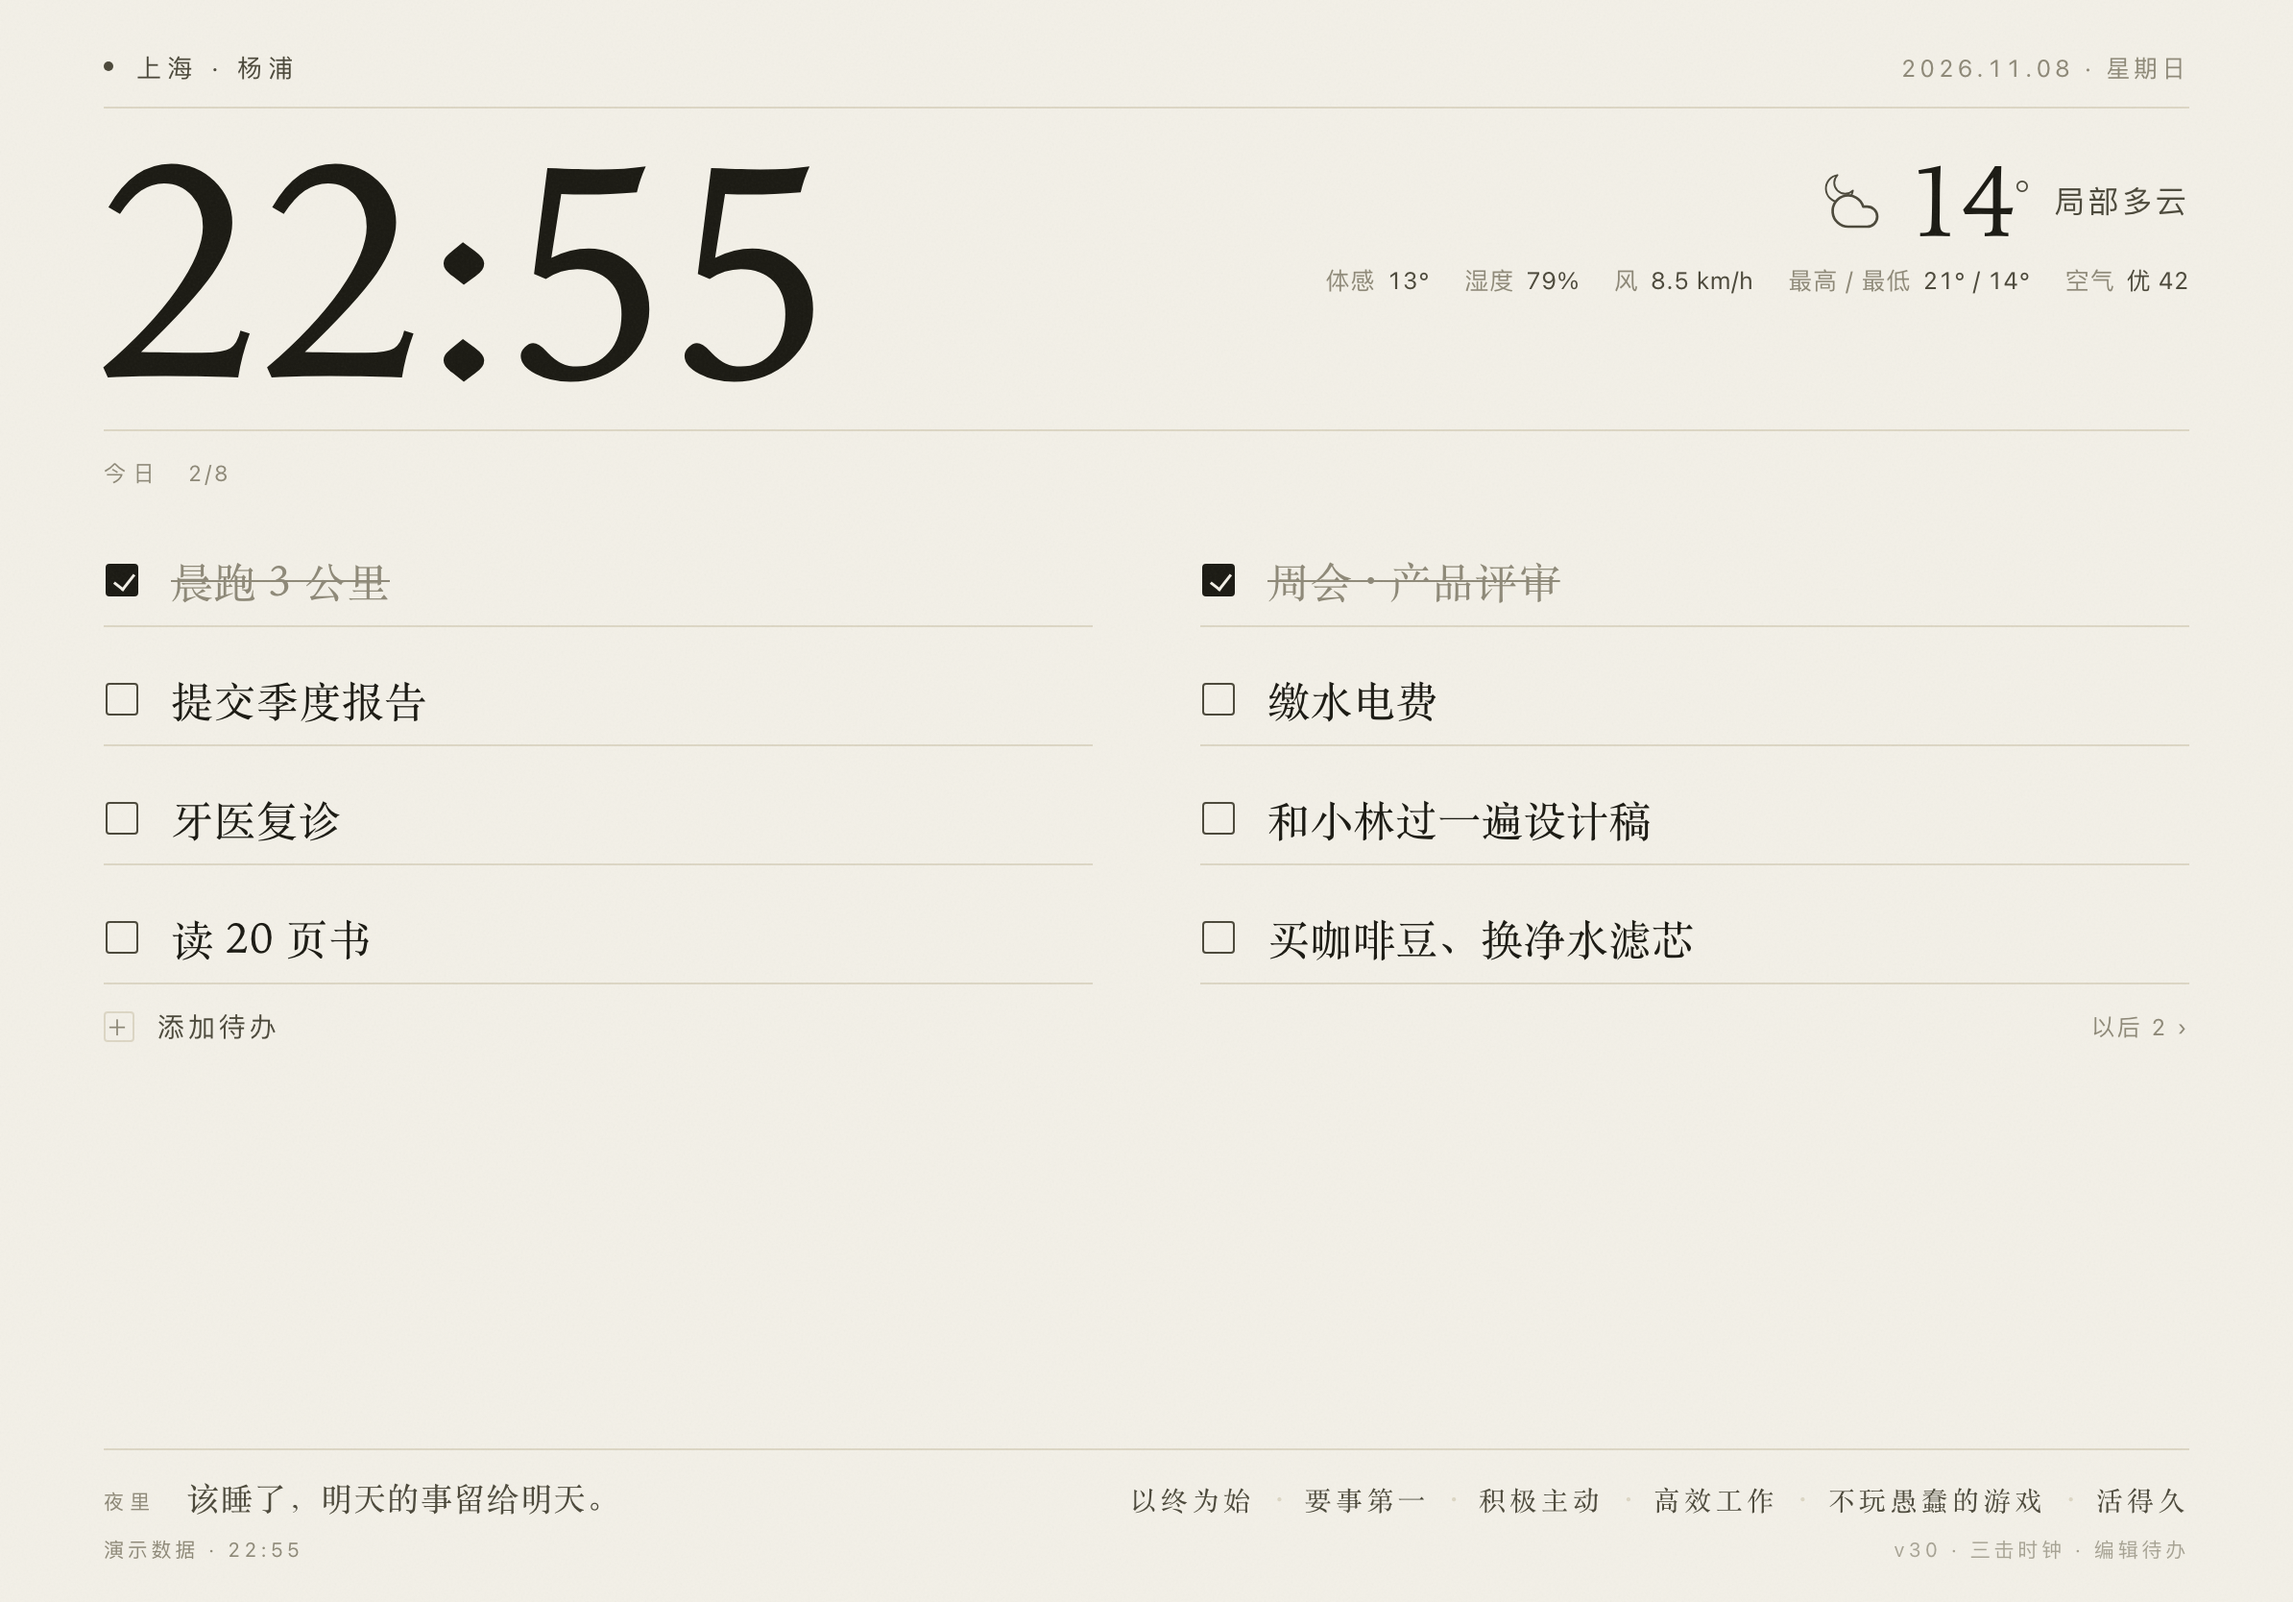
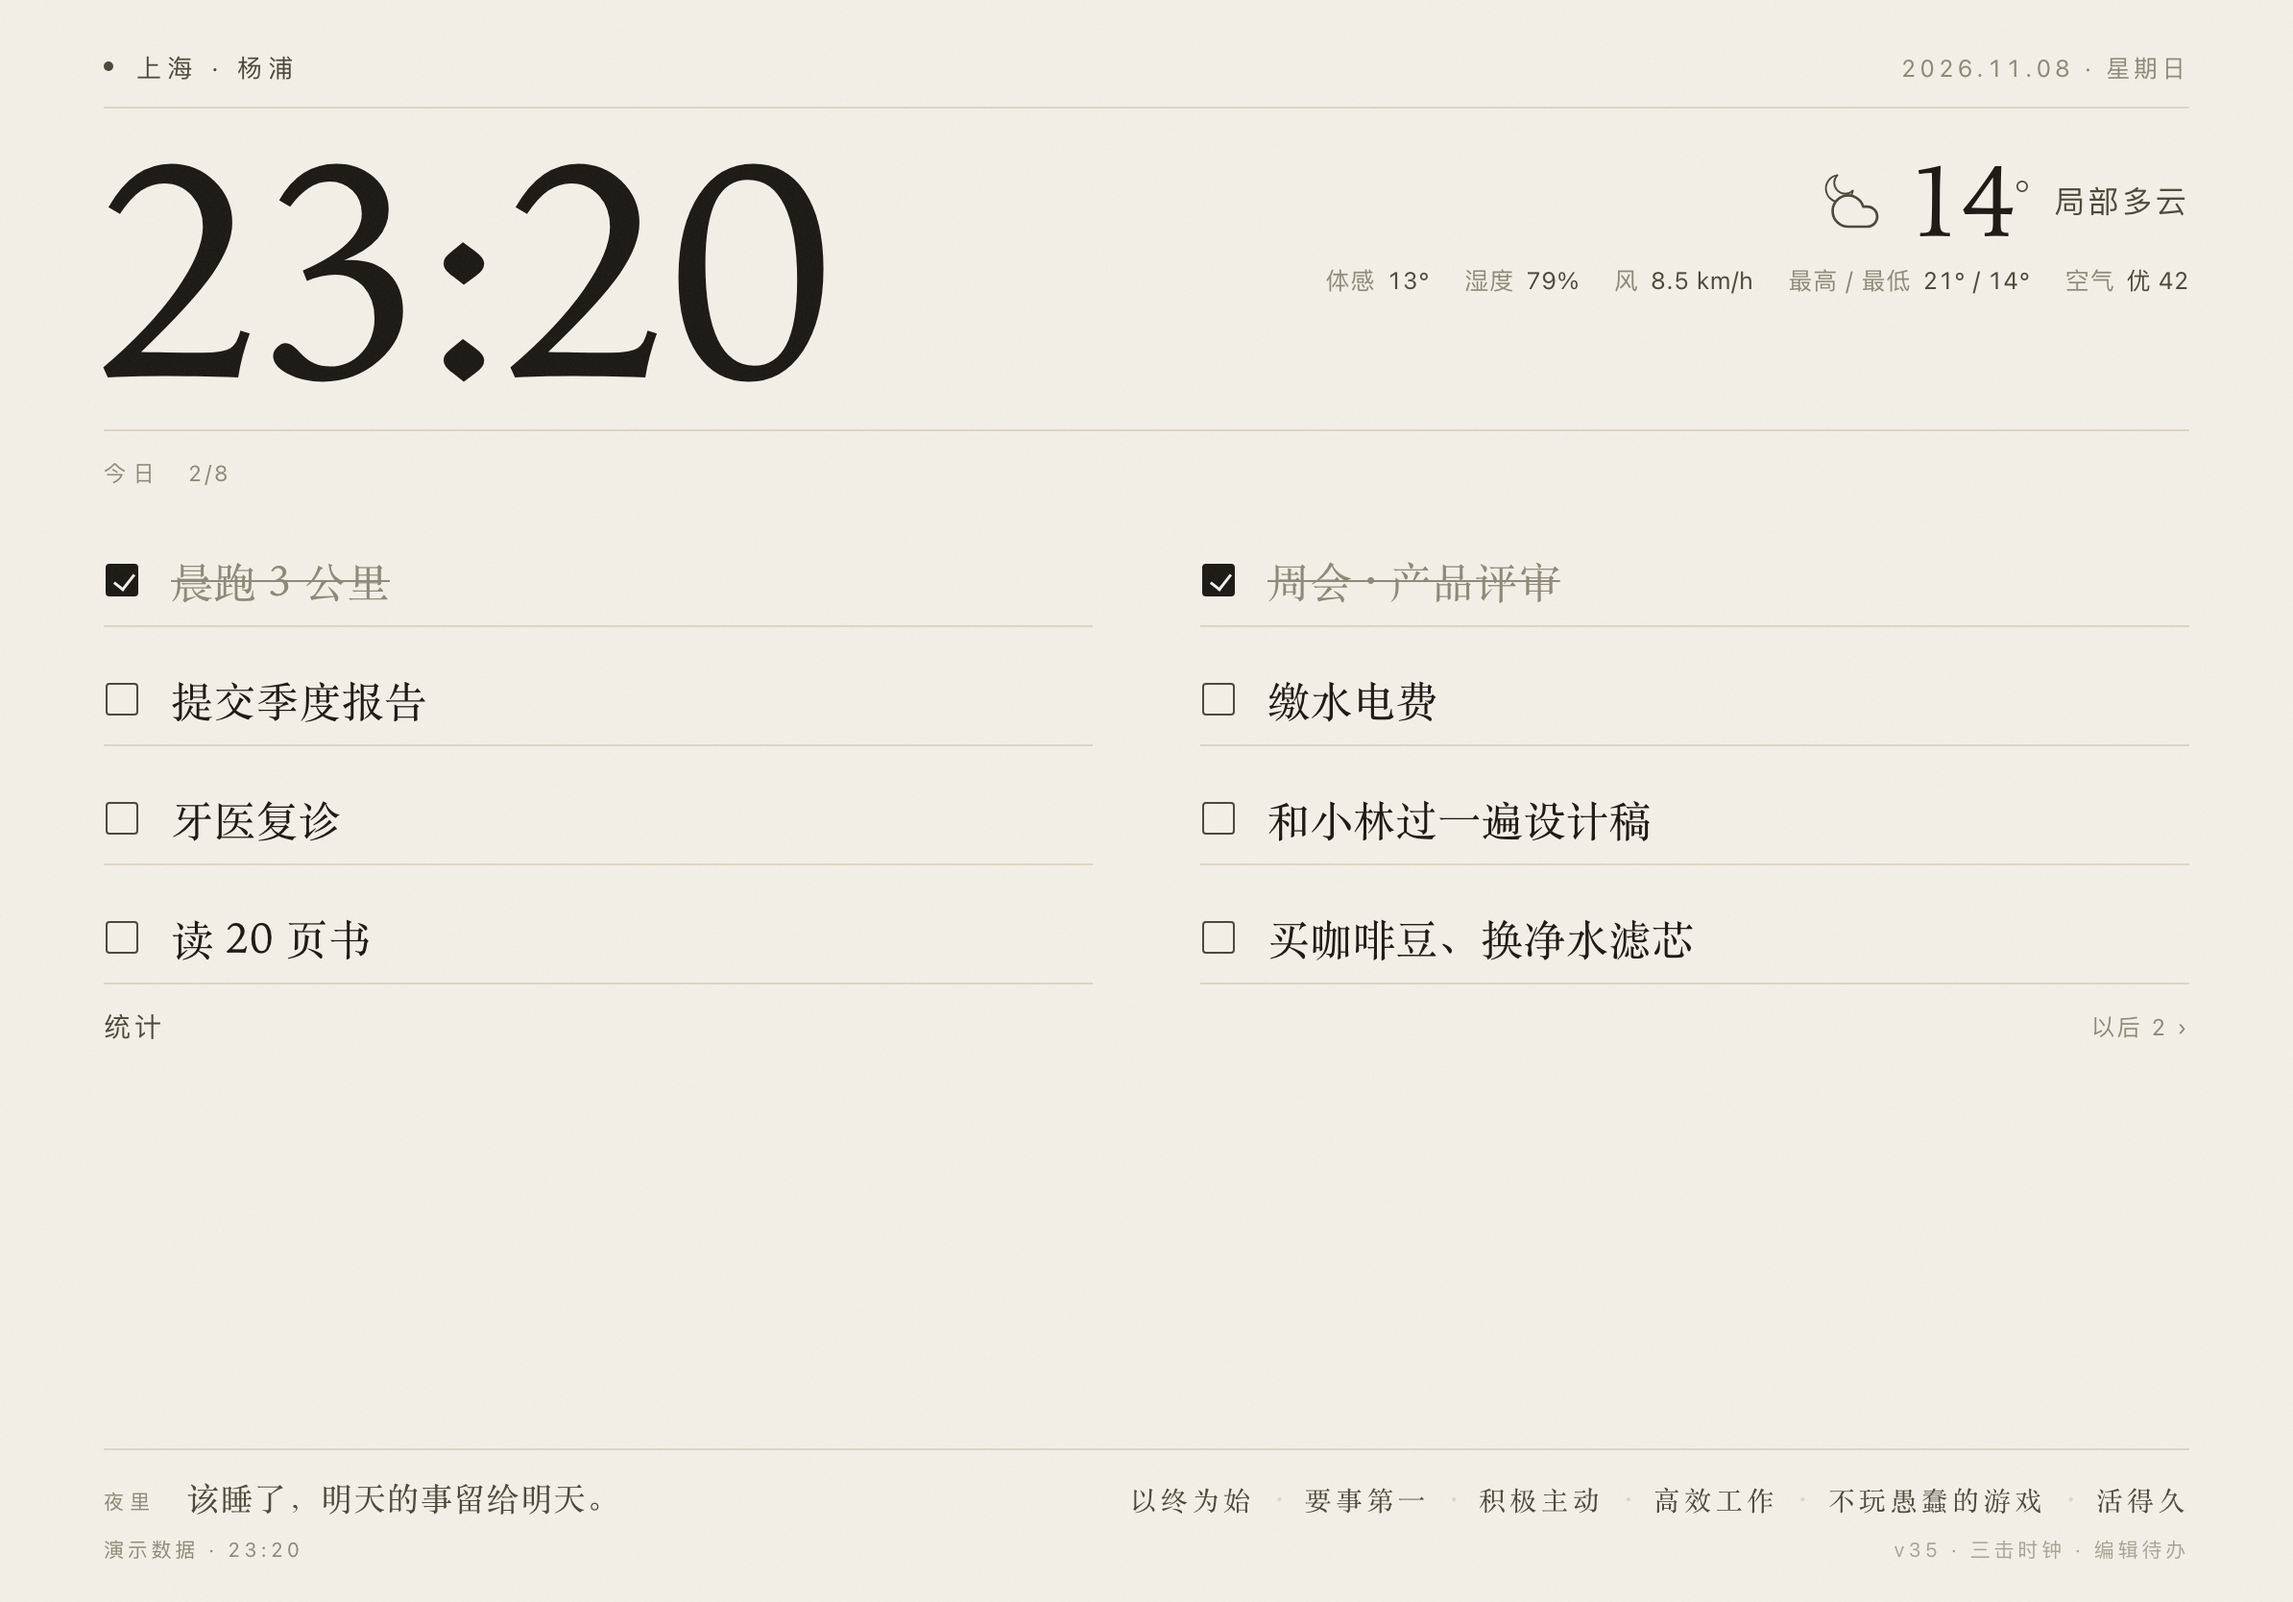
看板入口换成统计；面板底部换成备份三件套（v35）

Changed region(s): [[0.2169, 0.0935, 0.3719, 0.2494], [0.124, 0.1247, 0.1859, 0.2494], [0.031, 0.6235, 0.124, 0.6547]]

diff --git a/index.html b/index.html
@@ -172,11 +172,11 @@
     font-size:14px;letter-spacing:.14em;color:var(--ink-2);
     cursor:pointer;
   }
-  .addline .plus{
-    display:inline-flex;align-items:center;justify-content:center;flex:0 0 auto;
-    width:16px;height:16px;border:1px solid var(--rule);border-radius:2px;
-    font-size:13px;line-height:1;color:var(--muted);
+  #btnStatsLine{
+    padding:0;background:none;border:none;cursor:pointer;
+    font-family:var(--sans);font-size:14px;letter-spacing:.14em;color:var(--ink-2);
   }
+  #btnStatsLine:active{color:var(--ink)}
   .addline .more{margin-left:auto;font-size:12px;letter-spacing:.08em;opacity:.9}
   #poolBtn{
     margin-left:14px;padding:0;background:none;border:none;
@@ -441,8 +441,8 @@
   <section id="left">
     <div class="sec" id="todoHead"><span>今日</span><span class="n" id="todoProgress">0/0</span><span id="todoPager"></span></div>
     <ul id="todoList"></ul>
-    <div class="addline" id="addLine" role="button" tabindex="0">
-      <span class="plus">＋</span><span>添加待办</span>
+    <div class="addline">
+      <button id="btnStatsLine" type="button">统计</button>
       <span class="more" id="addMore"></span>
       <button id="poolBtn" type="button">以后 ›</button>
     </div>
@@ -482,10 +482,11 @@
   <div id="sheetList"></div>
 
   <div class="sheet-foot">
-    <button id="btnStats">统计</button>
-    <button id="btnClearDone">清理已完成</button>
-    <button id="btnImport">从 todos.json 导入</button>
-    <span class="note">存在本机 · 每天自动留档 · 统计页可备份</span>
+    <button id="btnExport">导出备份</button>
+    <button id="btnImportBackup">恢复备份</button>
+    <button id="btnRestoreBak">恢复上一版</button>
+    <input type="file" id="fileBackup" accept="application/json,.json" hidden>
+    <span class="note">存在本机 · 每天自动留档</span>
   </div>
 </div>
 </div>
@@ -520,11 +521,7 @@
   </div>
 
   <div class="st-foot">
-    <button id="btnExport">导出备份</button>
-    <button id="btnImportBackup">恢复备份</button>
-    <button id="btnRestoreBak">恢复上一版</button>
     <button id="btnSnap">回滚快照</button>
-    <input type="file" id="fileBackup" accept="application/json,.json" hidden>
     <span class="note" id="backupNote">从未备份</span>
   </div>
 </div>
@@ -729,7 +726,7 @@
     ]
   };
 
-  const BUILD = "v34";   // 改版时 +1，页脚可见，用来确认主屏 App 拿到的是哪一版
+  const BUILD = "v35";   // 改版时 +1，页脚可见，用来确认主屏 App 拿到的是哪一版
 
   const params = new URLSearchParams(location.search);
   const DEMO_MODE = params.has("demo");
@@ -1507,7 +1504,6 @@
     $("#tabTodayN").textContent = state.todos.length ? state.todos.length : "";
     $("#tabPoolN").textContent = state.pool.length ? state.pool.length : "";
     $("#addForm").classList.toggle("pool", isPool);
-    $("#btnClearDone").style.display = isPool ? "none" : "";
     $("#addText").placeholder = isPool ? "记一件以后要做的事…" : "添加一件事…";
 
     const box = $("#sheetList");
@@ -1633,41 +1629,14 @@
 
   $("#btnClose").addEventListener("click", closeSheet);
 
-  $("#btnClearDone").addEventListener("click", () => {
-    if (!state.todos.some(t => t.done)) return;
-    state.todos = state.todos.filter(t => !t.done);
-    saveTodos();
-    renderTodos();
-    renderSheet();
-    renderStatus();
-  });
-
-  $("#btnImport").addEventListener("click", async () => {
-    try {
-      const j = await getJSON(CONFIG.todos.url, 6000);
-      const arr = Array.isArray(j) ? j : (j && j.items);
-      if (!Array.isArray(arr)) throw new Error("bad json");
-      if (state.todos.length && !window.confirm("用 todos.json 覆盖这台 iPad 上的清单？")) return;
-      state.todos = arr.map(normTodo).filter(t => t.text);
-      saveTodos();
-      renderTodos();
-      renderSheet();
-      renderStatus();
-    } catch (err) {
-      window.alert("读不到 todos.json。\n如果你是在本地双击打开的，浏览器不允许读同目录文件，属于正常现象。");
-    }
-  });
-
   $("#todoPager").addEventListener("click", e => {
     e.stopPropagation();
     nextPage();
   });
 
   // 入口：点「今日」、点「＋ 添加待办」、三击时钟
-  ["#todoHead", "#addLine"].forEach(sel => {
-    const el = $(sel);
-    if (el) el.addEventListener("click", () => openSheet("today"));
-  });
+  $("#todoHead").addEventListener("click", () => openSheet("today"));
+  $("#btnStatsLine").addEventListener("click", () => openStats());
 
   $("#poolBtn").addEventListener("click", e => { e.stopPropagation(); openSheet("pool"); });
 
@@ -1837,7 +1806,6 @@
   function openStats() { renderStats(); statsEl.classList.add("on"); }
   function closeStats() { statsEl.classList.remove("on"); }
 
-  $("#btnStats").addEventListener("click", openStats);
   $("#btnStatsClose").addEventListener("click", closeStats);
   $("#hist").addEventListener("click", e => {
     const row = e.target.closest(".hrow");

diff --git a/README.md b/README.md
@@ -142,13 +142,13 @@ location: { name: "上海 · 徐汇", lat: 31.1884, lon: 121.4336, tz: "Asia/Sha
 
 **跨天规则**：每天 0 点，系统会把**当天的完整清单**（包括没做完的）写进历史，然后把没做完的顺延到新的一天。历史**不设上限**——一天大约 300 字节，十年也就 1MB 级；只有本地存储快撑爆时才会自动丢掉最老的一半。不想要留档就把 `CONFIG.todos.dailyArchive` 改成 `false`。
 
-**`todos.json` 还需要吗？** 需要，但只当备份和初始化用：第一次打开时用它播种；在面板底部点「从 todos.json 导入」可以手动覆盖（换 iPad、恢复备份时用）。
+**`todos.json` 还需要吗？** 只当初始化用：第一次打开（本地没有任何数据时）拿它播种一次，之后不再自动覆盖。换设备请用面板底部的「恢复备份」。
 
 > ⚠ 本地存储的边界：清空 Safari 网站数据、删掉主屏幕图标重装、换设备，清单都会没有。重要的内容建议在 `todos.json` 里也留一份，或者告诉我加一个「导出到文件」。
 
 ### 4. 统计与备份
 
-待办面板底部点「统计」进入统计页：
+看板「今日」那一行下方的「统计」进入统计页：
 
 ![统计页](preview-stats.png)
 
@@ -159,7 +159,7 @@ location: { name: "上海 · 徐汇", lat: 31.1884, lon: 121.4336, tz: "Asia/Sha
 
 **防丢**：每天存一份**全量快照**（独立键 `board.snap.YYYY-MM-DD`，保留 7 天），统计页有「回滚到 MM-DD」按钮，能连以后池和历史一起回到那一天。另外每次写入前会把上一版存成 `board.todos.bak`；主存储一旦缺失，打开时会自动用这份快照顶上。统计页还有「恢复上一版」按钮，以及一行 `数据 4.2 KB · 存于 22:31` 的诊断信息。
 
-**备份**：统计页底部有「导出备份 / 恢复备份」。iPad 上导出会走系统分享面板，可以直接存进「文件」或 iCloud Drive；要在新设备上恢复，选那个 JSON 即可，会覆盖当前清单、**以后池**和全部历史。旁边一行会显示「上次备份：X 天前」，超过一个月没备份就去点一下。
+**备份**：待办面板底部有「导出备份 / 恢复备份 / 恢复上一版」。iPad 上导出会走系统分享面板，可以直接存进「文件」或 iCloud Drive；要在新设备上恢复，选那个 JSON 即可，会覆盖当前清单、**以后池**和全部历史。旁边一行会显示「上次备份：X 天前」，超过一个月没备份就去点一下。
 
 ### 5. 健康提示
 
